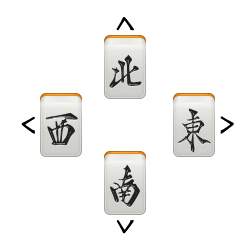
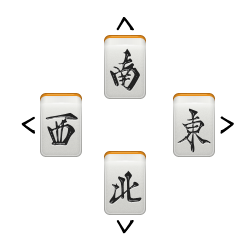
fix wrong wind direction

Changed region(s): [[0.42, 0.196, 0.56, 0.364], [0.42, 0.644, 0.588, 0.84]]

diff --git a/client-app/src/app/common/util/util.ts b/client-app/src/app/common/util/util.ts
@@ -11,25 +11,25 @@ export const GetOtherUserWindPosition = (currentUserWind:WindDirection , directi
     case 'left':
       switch(currentUserWind){
         case WindDirection.East:
-          return WindDirection.South;
-        case WindDirection.South:
-          return WindDirection.West;
-        case WindDirection.West:
           return WindDirection.North;
-        case WindDirection.North:
+        case WindDirection.South:
           return WindDirection.East;
+        case WindDirection.West:
+          return WindDirection.South;
+        case WindDirection.North:
+          return WindDirection.West;
       }
     break;
     case 'right':
       switch(currentUserWind){
         case WindDirection.East:
-          return WindDirection.North;
-        case WindDirection.South:
-          return WindDirection.East;
-        case WindDirection.West:
           return WindDirection.South;
-        case WindDirection.North:
+        case WindDirection.South:
           return WindDirection.West;
+        case WindDirection.West:
+          return WindDirection.North;
+        case WindDirection.North:
+          return WindDirection.East;
       }
     break;    
     case 'top':

diff --git a/client-app/src/features/games/lobby/GameLobbySidebar.tsx b/client-app/src/features/games/lobby/GameLobbySidebar.tsx
@@ -27,7 +27,7 @@ const GameLobbySidebar: React.FC<IProps> = ({players}) => {
         <Grid.Row>
           <Grid.Column width={4}></Grid.Column>
           <Grid.Column textAlign="center" width={8}>
-            <GameLobbySeat wind={WindDirection.North} />
+            <GameLobbySeat wind={WindDirection.South} />
           </Grid.Column>
           <Grid.Column width={4}></Grid.Column>
         </Grid.Row>
@@ -47,7 +47,7 @@ const GameLobbySidebar: React.FC<IProps> = ({players}) => {
         <Grid.Row>
           <Grid.Column width={4}></Grid.Column>
           <Grid.Column textAlign="center" width={8}>
-            <GameLobbySeat wind={WindDirection.South} />
+            <GameLobbySeat wind={WindDirection.North} />
           </Grid.Column>
           <Grid.Column width={4}></Grid.Column>
         </Grid.Row>

diff --git a/MahjongBuddy.Application/Tiles/Throw.cs b/MahjongBuddy.Application/Tiles/Throw.cs
@@ -110,16 +110,16 @@ namespace MahjongBuddy.Application.Tiles
                 switch (currentPlayerWind)
                 {
                     case WindDirection.East:
-                        ret = players.First(p => p.Wind == WindDirection.North);
-                        break;
-                    case WindDirection.South:
-                        ret = players.First(p => p.Wind == WindDirection.East);
-                        break;
-                    case WindDirection.West:
                         ret = players.First(p => p.Wind == WindDirection.South);
                         break;
-                    case WindDirection.North:
+                    case WindDirection.South:
                         ret = players.First(p => p.Wind == WindDirection.West);
+                        break;
+                    case WindDirection.West:
+                        ret = players.First(p => p.Wind == WindDirection.North);
+                        break;
+                    case WindDirection.North:
+                        ret = players.First(p => p.Wind == WindDirection.East);
                         break;
                     default:
                         throw new Exception("Error when getting next player");

diff --git a/MahjongBuddy.EntityFramework/Migrations/SeedData/DefaultGameBuilder.cs b/MahjongBuddy.EntityFramework/Migrations/SeedData/DefaultGameBuilder.cs
@@ -36,24 +36,28 @@ namespace MahjongBuddy.EntityFramework.Migrations.SeedData
                     MinPoint = 3,
                     UserGames = new List<UserGame>
                     {
+                        //Tonny
                         new UserGame
                         {
                             IsHost = true,
                             AppUserId = "a",
                             InitialSeatWind = WindDirection.East
                         },
+                        //Mei
                         new UserGame
                         {
                             IsHost = false,
                             AppUserId = "b",
                             InitialSeatWind = WindDirection.South
                         },
+                        //Peter
                         new UserGame
                         {
                             IsHost = false,
                             AppUserId = "c",
                             InitialSeatWind = WindDirection.West
                         },
+                        //Jason
                         new UserGame
                         {
                             IsHost = false,

diff --git a/MahjongBuddy.EntityFramework/Migrations/SeedData/DefaultUserBuilder.cs b/MahjongBuddy.EntityFramework/Migrations/SeedData/DefaultUserBuilder.cs
@@ -28,6 +28,13 @@ namespace MahjongBuddy.EntityFramework.Migrations.SeedData
                     UserName = "Tonny",
                     Email = "tonny@gmail.com"
                 };
+                var rightPlayer = new AppUser
+                {
+                    Id = "b",
+                    DisplayName = "Mei",
+                    UserName = "Mei",
+                    Email = "mei@gmail.com"
+                };
                 var topPlayer = new AppUser
                 {
                     Id = "c",
@@ -36,13 +43,6 @@ namespace MahjongBuddy.EntityFramework.Migrations.SeedData
                     Email = "peter@gmail.com"
                 };
                 var leftPlayer = new AppUser
-                {
-                    Id = "b",
-                    DisplayName = "Mei",
-                    UserName = "Mei",
-                    Email = "mei@gmail.com"
-                };
-                var rightPlayer = new AppUser
                 {
                     Id = "d",
                     DisplayName = "Jason",
